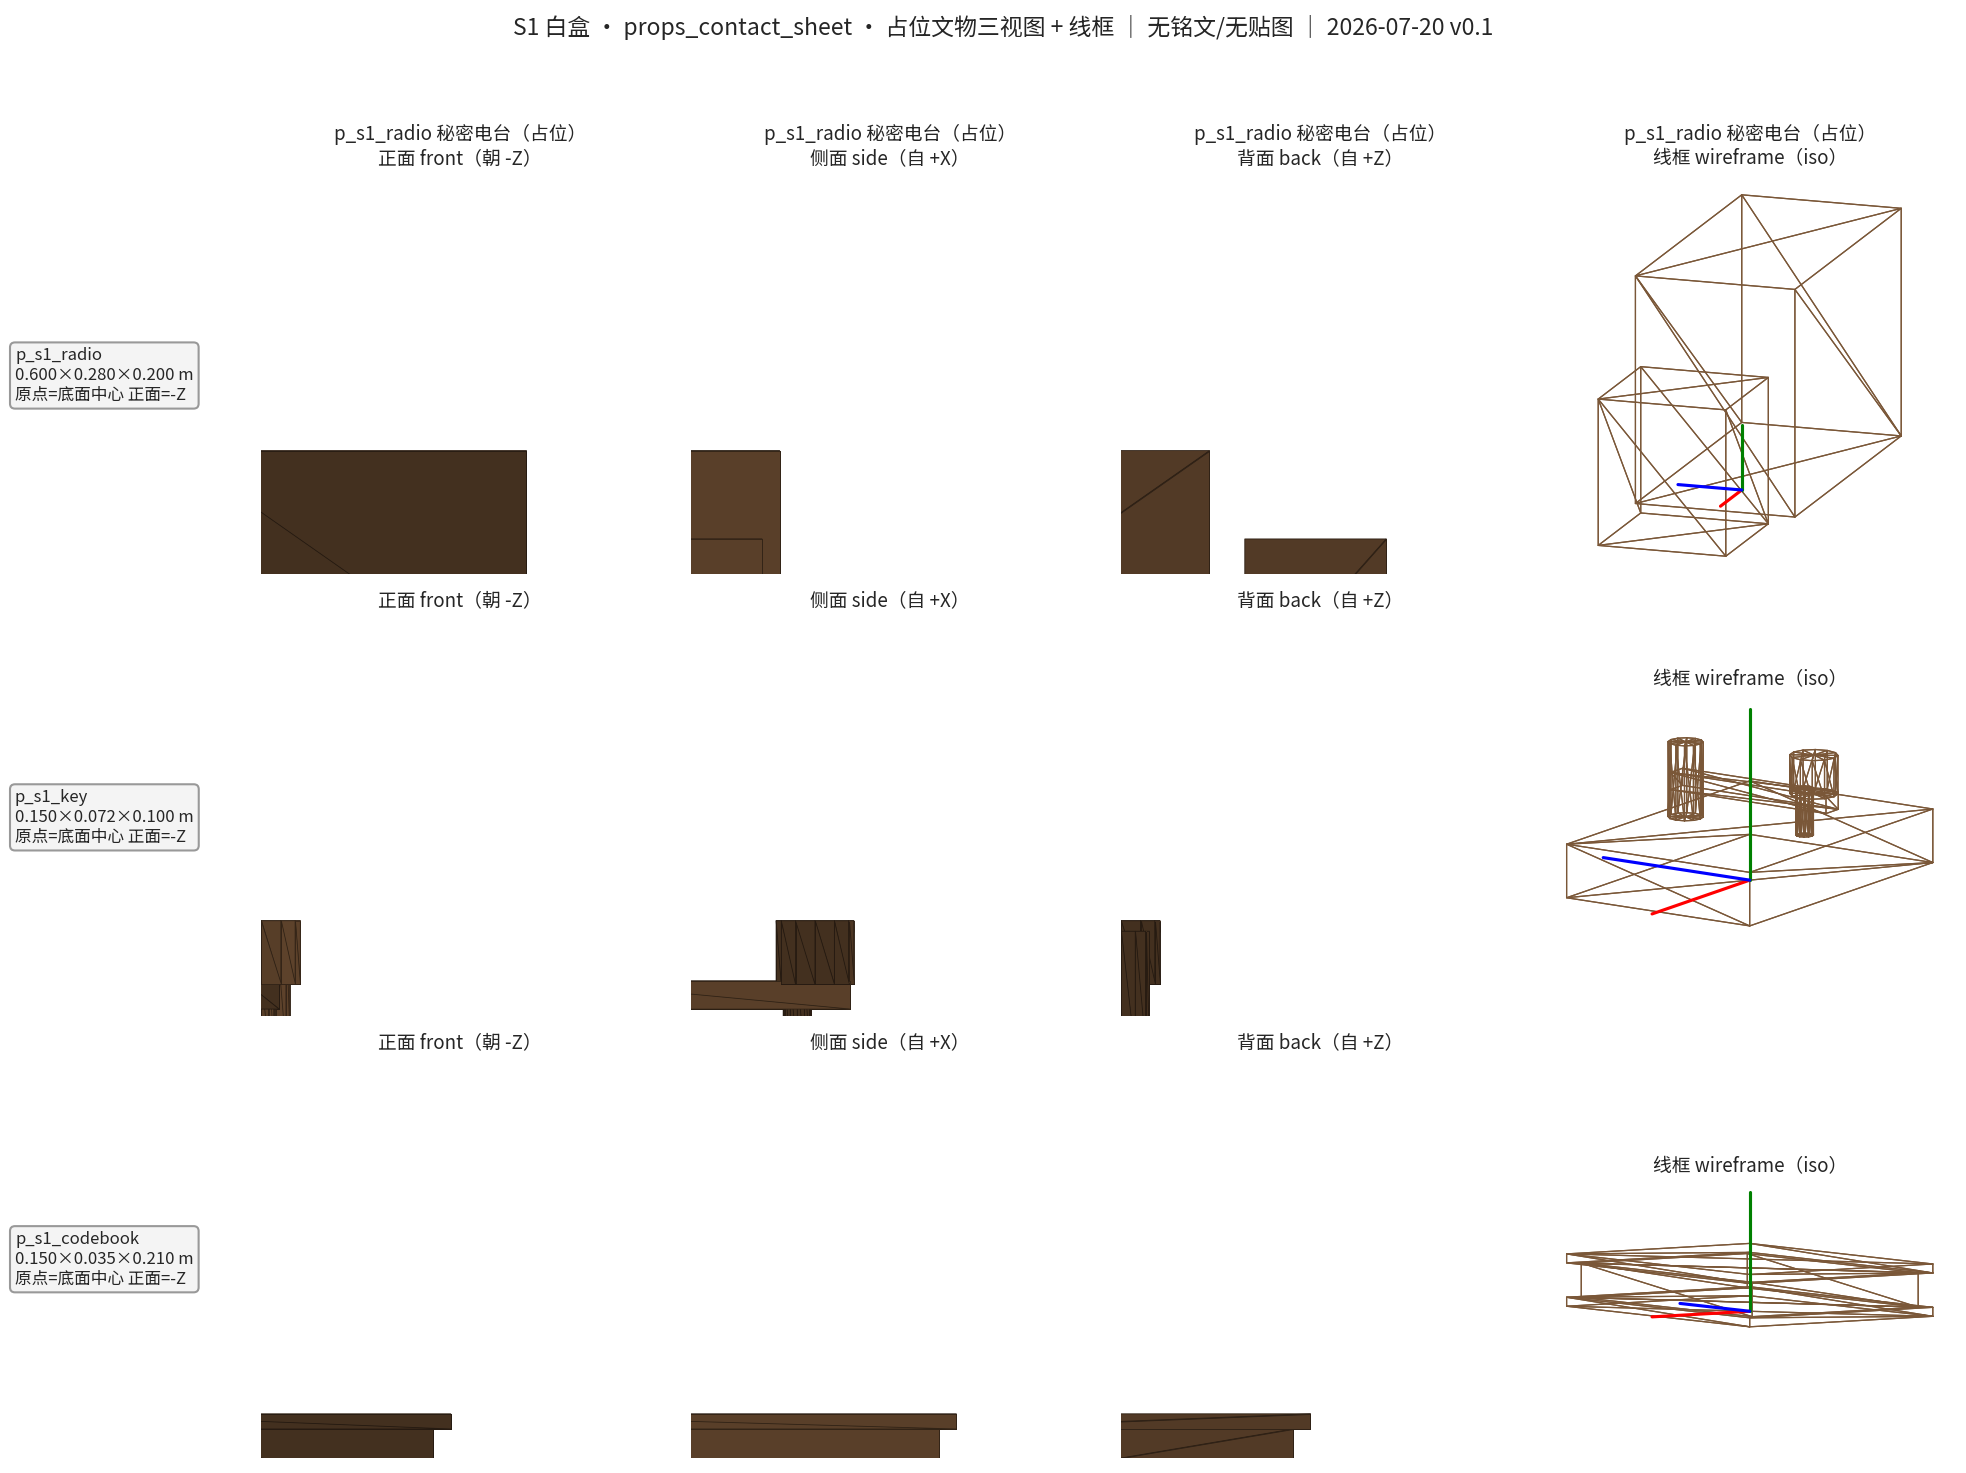
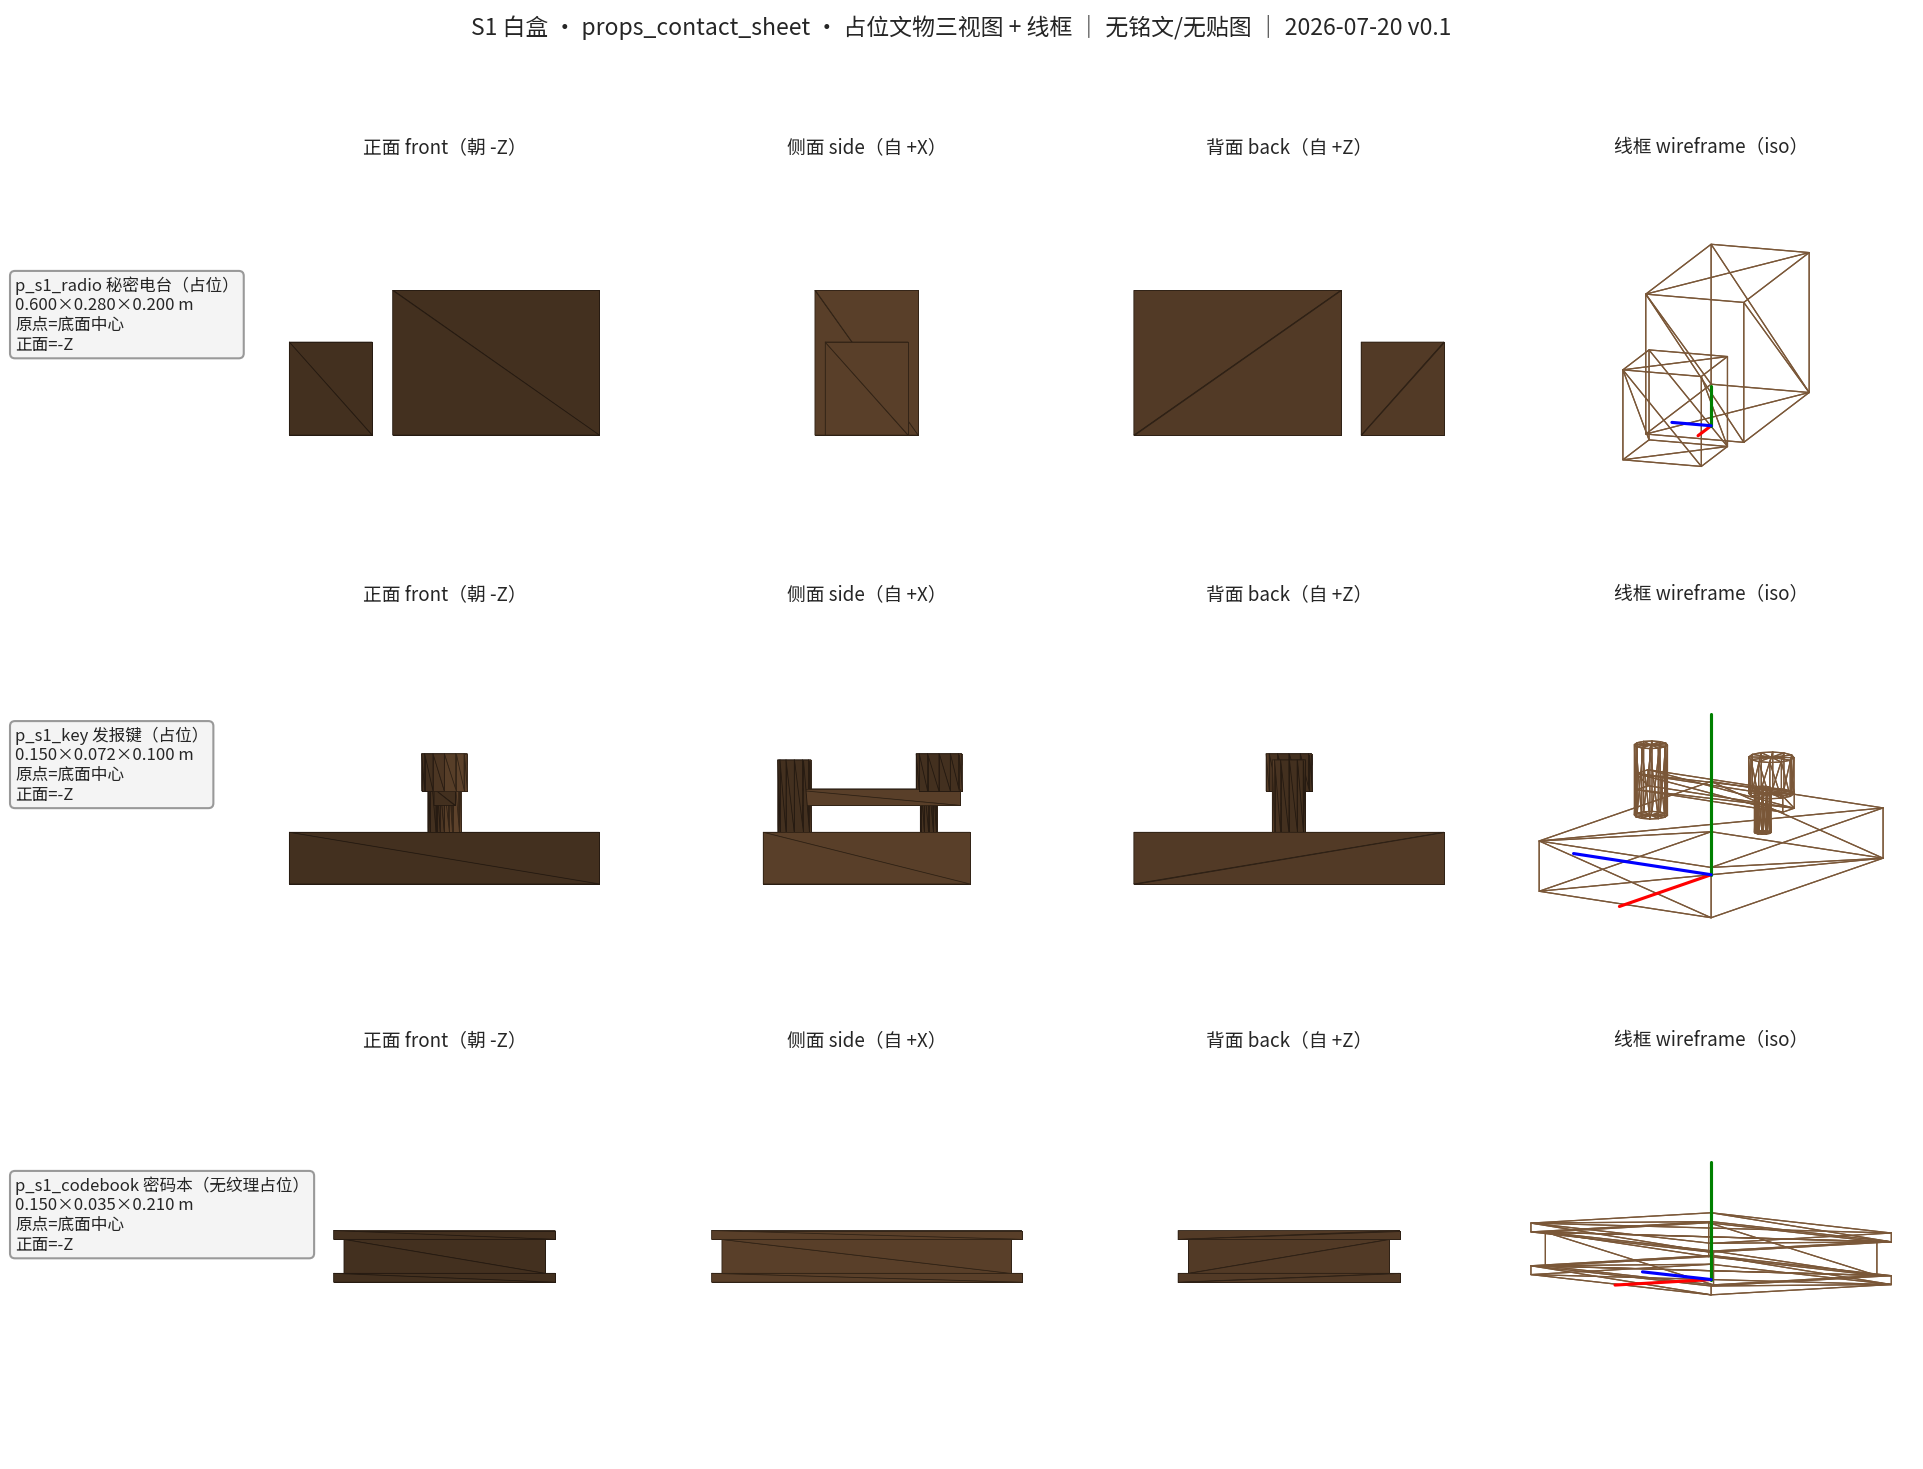
M3D-01: S1 whitebox scene + 3 placeholder props + scene.json + previews
- environment_whitebox.glb (8x8x2.6m, 552 tris) + radio/key/codebook placeholders
- scene.json: visitor start [0,1.6,3.0], bounds +/-3.6m, 7 AABB colliders, 2 move points
- Khronos glTF-Validator 2.0.0-dev.3.10: 0 errors / 0 warnings on all 4 GLBs
- contract cross-check PASS: first target 1.50m (<2m rule), all props in interaction range
- no inscriptions/textures; codebook untextured placeholder per FINAL_MODEL_BLOCKED
- colliders only in scene.json, not in render GLBs
- parametric generator in source/whitebox (layout_s1.py = single source of truth)
- pending: on-device joint debug; owner review of research package Q-001/002/003

diff --git a/modeling_delivery/S1/source/whitebox/gen_asset_report.py b/modeling_delivery/S1/source/whitebox/gen_asset_report.py
@@ -1,0 +1,71 @@
+"""Generate asset_report.csv for the S1 whitebox delivery.
+
+Recomputes stats directly from the delivered GLBs (never from memory).
+validator_errors / validator_warnings columns come from the Khronos
+glTF-Validator (npm gltf-validator 2.0.0-dev.3.10, run 2026-07-20,
+0 errors / 0 warnings on all four files); check_glb.py structural
+self-check is re-run here as the in-repo gate.
+
+Usage: python gen_asset_report.py
+"""
+
+import csv
+import os
+import sys
+
+sys.path.insert(0, os.path.dirname(os.path.abspath(__file__)))
+import check_glb
+
+HERE = os.path.dirname(os.path.abspath(__file__))
+S1 = os.path.normpath(os.path.join(HERE, "..", ".."))
+
+ASSETS = [
+    ("env_s1_room", "environment_whitebox.glb", (8.40, 2.70, 8.40), "白盒 v0.1；含桌椅/木箱/灯具/信息面占位；碰撞仅在 scene.json"),
+    ("p_s1_radio", "props/radio_station_whitebox.glb", (0.600, 0.280, 0.200), "主箱体+辅助箱体占位；无铭文；场景化复原方向待审"),
+    ("p_s1_key", "props/telegraph_key_whitebox.glb", (0.150, 0.072, 0.100), "通用直键占位；key_lever 独立节点于枢轴，供 interact 动画"),
+    ("p_s1_codebook", "props/code_book_whitebox.glb", (0.150, 0.035, 0.210), "无纹理合拢占位（FINAL_MODEL_BLOCKED）；不得加任何文字"),
+]
+
+HEADER = ["asset_id", "file", "size_bytes", "triangles", "vertices", "materials", "textures",
+          "max_texture_px", "animations", "validator_errors", "validator_warnings",
+          "dim_x_m", "dim_y_m", "dim_z_m", "notes"]
+
+
+def main() -> int:
+    rows = []
+    rc = 0
+    for asset_id, rel, dims, notes in ASSETS:
+        path = os.path.join(S1, "runtime", rel)
+        st = check_glb.check(path)
+        if st["errors"]:
+            rc = 1
+        rows.append({
+            "asset_id": asset_id,
+            "file": rel,
+            "size_bytes": st["size_bytes"],
+            "triangles": st["triangles"],
+            "vertices": st["vertices"],
+            "materials": st["materials"],
+            "textures": st["textures"],
+            "max_texture_px": 0,
+            "animations": "",
+            "validator_errors": 0,
+            "validator_warnings": 0,
+            "dim_x_m": dims[0],
+            "dim_y_m": dims[1],
+            "dim_z_m": dims[2],
+            "notes": notes + ("｜自检 ERROR: " + ";".join(st["errors"]) if st["errors"] else ""),
+        })
+    out = os.path.join(S1, "asset_report.csv")
+    with open(out, "w", encoding="utf-8-sig", newline="") as fh:
+        w = csv.DictWriter(fh, fieldnames=HEADER)
+        w.writeheader()
+        w.writerows(rows)
+    print("written", out)
+    for r in rows:
+        print(f"  {r['asset_id']}: {r['size_bytes']}B {r['triangles']}tri {r['vertices']}v tex={r['textures']}")
+    return rc
+
+
+if __name__ == "__main__":
+    sys.exit(main())

diff --git a/modeling_delivery/S1/source/whitebox/render_previews.py b/modeling_delivery/S1/source/whitebox/render_previews.py
@@ -257,8 +257,8 @@ def scene_overview():
     wtext((0, 0.02, -4.25), "8.00 m（产品白盒尺度，非历史尺寸）")
     wtext((-4.35, 0.02, 0), "8.00 m")
     wtext((4.3, 1.3, -4.1), "2.60 m")
-    wtext(tuple(p0 + np.array([0.9, 0.15, 0.1])), "visitor_start [0, 1.6, 3.0]", "#1e8449")
-    wtext((0.8, 1.35, 1.5), "p_s1_radio + key + codebook（桌面操作组）", "#7b3f00")
+    wtext(tuple(p0 + np.array([-1.6, 0.3, 0.3])), "visitor_start [0, 1.6, 3.0]", "#1e8449")
+    wtext((2.3, 1.05, 1.6), "p_s1_radio + key + codebook（桌面操作组）", "#7b3f00")
     wtext((0, 2.0, -3.9), "info_panel（导览蓝）", "#1a5276")
     wtext((-3.3, 1.05, -1.3), "crates", "#444444")
     finish(ax, "S1 白盒 · scene_overview · 灰=环境 棕=可交互 蓝=导览 ｜ 红虚线=colliders 橙点线=movement bounds 绿=起点 蓝钻=move_points ｜ 2026-07-20 v0.1 临时坐标待真机联调")

diff --git a/modeling_delivery/S1/CHANGELOG.md b/modeling_delivery/S1/CHANGELOG.md
@@ -9,3 +9,41 @@
 - 输出 `references/index.md`（参考索引 + 逐资产状态表）、`open_questions.md`（23 条待确认问题，含阻塞分级）、`asset_priority.md`（优先级确认表）。
 - 结论：M3D-02/M3D-03 阻塞，等待资料负责人交付并经项目负责人确认的 S1 资料包；M3D-01 白盒待 scene_seed 临时种子确认后启动。
 - 状态：✅ M3D-00 审计交付完成（完成标准本身未满足，缺失项已全部登记为阻塞，未虚构任何参考）。
+
+## 2026-07-20 ｜ M3D-01 ｜ S1 白盒场景与占位文物（v0.1，待真机联调）
+
+**依据**：技术负责人 2026-07-20 批准以计划书 §4.4/§5.4 取值 + 资料包 `modeling_brief.md` §8 作为白盒临时种子；资料包状态 `WHITEBOX_ALLOWED / FORMAL_ASSET_BLOCKED`。
+
+**交付物**（`modeling_delivery/S1/`）：
+
+| 文件 | 说明 |
+|---|---|
+| `runtime/environment_whitebox.glb` | 8.0×8.0×2.6 m 房间（产品白盒尺度，非历史尺寸）：外壳、南墙入口框+关闭门扇、北墙信息面（导览蓝）、电台桌+木凳、木箱×3、吊灯+桌灯占位；552 tris / 2 材质 |
+| `runtime/props/radio_station_whitebox.glb` | `p_s1_radio` 占位：主箱体+辅助箱体，无铭文；24 tris |
+| `runtime/props/telegraph_key_whitebox.glb` | `p_s1_key` 占位：通用直键；`key_lever` 独立节点位于枢轴 `[0,0.042,0.035]`，供后续 interact 动画；168 tris |
+| `runtime/props/code_book_whitebox.glb` | `p_s1_codebook` 无纹理合拢占位（FINAL_MODEL_BLOCKED）；36 tris |
+| `runtime/scene.json` | schema_version 1；起点 `[0,1.6,3.0]`；bounds ±3.6 m；7 个 AABB collider；2 个 move point；3 个 prop 配置 |
+| `preview/scene_overview.png` | 轴测剖切 + collider 线框 + 起点/move point 标记 + 尺寸标注 |
+| `preview/visitor_start.png` | 起点第一人称软件渲染近似 |
+| `preview/props_contact_sheet.png` | 三占位文物正面/侧面/背面/线框 |
+| `asset_report.csv` | 逐 GLB 统计（含尺寸列） |
+| `source/whitebox/*.py` | 参数化生成器（布局唯一事实源 `layout_s1.py`）、校验器、预览渲染器 |
+
+**校验**：
+- Khronos glTF-Validator 2.0.0-dev.3.10：4 个 GLB 全部 **0 errors / 0 warnings**。
+- 仓库内结构自检 `check_glb.py`：PASS（坐标系/单位/原点/命名/无贴图/单位缩放）。
+- `scene.json` 契约交叉检查：PASS（起点与 move point 在 bounds 内、不落入 collider；起点→电台 1.50 m 满足 §4.3 首目标 <2 m；三文物均在 mp_radio 交互半径内）。
+
+**与计划书 §5.4 示例的有意偏差**（详见 open_questions.md 更新）：
+1. 电台桌移到起点前方 1.5 m 处（示例坐标首目标距起点 4.1 m，不满足 §4.3 的 2 m 规则）。
+2. movement bounds 收紧为 ±3.6 m（8 m 房间内壁 − 0.25 m 游客半径余量；示例 ±5 m 超出房间）。
+3. `visitor_start.rotation_deg` 取 `[0,0,0]`（按「-Z 朝前」零旋转即朝电台桌）；§5.4 示例 `[0,180,0]` 与此不一致 → OQ-I-04 待编码联调确认。
+
+**合规**：无任何铭文/徽标/序列号/地图文本/档案内容；无贴图（textures=0）；密码本仅无纹理占位；碰撞只在 scene.json，未进入渲染 GLB；白盒三色区分环境/可交互/导览（资料包 §4.1）。
+
+**已知问题**：
+1. 预览图为软件渲染示意，真实材质/光照以 Filament 真机为准。
+2. visitor_start 视角中木凳可能被视锥下缘裁切（视角俯仰待联调标定）。
+3. 所有坐标为临时值，未通过真机联调前不得冻结；正式 `environment.glb` 须保持同一坐标与碰撞基准（资料包 §7）。
+
+**状态**：⏸ 按资料包 §8 在此停止，等待：① 编码模型真机联调反馈；② 项目负责人对资料包 Q-001/002/003 的审核结论。未通过真机联调，白盒不标记为完成。

diff --git a/modeling_delivery/S1/asset_priority.md b/modeling_delivery/S1/asset_priority.md
@@ -7,12 +7,12 @@
 
 | 顺序 | 资产 ID | 中文名 | 级别 | 所属任务卡 | 交付形态 | 当前状态 | 解锁条件 |
 |---|---|---|---|---|---|---|---|
-| 1 | `env_s1_room` | 地下情报站环境 | MVP | M3D-01（白盒）→ M3D-03（正式） | 白盒 GLB → 正式 `environment.glb` | ⬜ 未启动 | 🟡 scene_seed + 比例尺（见 OQ-G-01/02） |
-| 2 | `p_s1_radio` | 秘密电台 | MVP | M3D-01（占位）→ M3D-02（正式，第 1 顺位） | 占位 GLB → 正式 `props/radio_station.glb` | ⬜ 未启动 | 🔴 资料包 + 项目负责人确认（OQ-R-01~04） |
-| 3 | `p_s1_key` | 发报键 | MVP | M3D-01（占位）→ M3D-02（正式，第 2 顺位） | 占位 GLB → 正式 `props/telegraph_key.glb` | ⬜ 未启动 | 🔴 资料包（OQ-K-01/02） |
-| 4 | `p_s1_codebook` | 密码本 | MVP | M3D-01（占位）→ M3D-02（正式，第 3 顺位） | 占位 GLB → 正式 `props/code_book.glb` | ⬜ 未启动 | 🔴 资料包 + 内容组确认（OQ-C-01/02） |
+| 1 | `env_s1_room` | 地下情报站环境 | MVP | M3D-01（白盒）→ M3D-03（正式） | 白盒 GLB → 正式 `environment.glb` | ✅ 白盒已交付（v0.1，待真机联调） | 正式：资料包 Q-001/002/003 + 项目负责人确认 |
+| 2 | `p_s1_radio` | 秘密电台 | MVP | M3D-01（占位）→ M3D-02（正式，第 1 顺位） | 占位 GLB → 正式 `props/radio_station.glb` | ✅ 占位已交付（待真机联调） | 🔴 正式：型号外观参考仍缺（UNVERIFIED-001） |
+| 3 | `p_s1_key` | 发报键 | MVP | M3D-01（占位）→ M3D-02（正式，第 2 顺位） | 占位 GLB → 正式 `props/telegraph_key.glb` | ✅ 占位已交付（待真机联调） | 🔴 正式：形制尺寸参考仍缺 |
+| 4 | `p_s1_codebook` | 密码本 | MVP | M3D-01（占位）→ M3D-02（正式，第 3 顺位） | 占位 GLB → 正式 `props/code_book.glb` | ✅ 无纹理占位已交付 | 🔴 `FINAL_MODEL_BLOCKED`：等用户决定保留/改名/替换 |
 | 5 | `p_s1_battery` | 电池/供电设备 | P1 | M3D-06（扩展） | 待定 | ⏸ 本轮不做 | M2 基线完成后领取 |
-| 6 | `d_s1_map` | 历史地图展示面 | P1 | M3D-06（扩展） | 待定 | ⏸ 本轮不做 | 获准地图图片（OQ-H-03） |
+| 6 | `d_s1_map` | 历史地图展示面 | P1 | M3D-06（扩展） | 待定 | ⏸ 本轮不做 | 须原创重绘（任务书 §4.6），不用网页截图 |
 
 > GLB 文件名取自计划书 §5.1 运行时资产结构（`radio_station.glb` / `code_book.glb` / `telegraph_key.glb` / `environment.glb`），交付时与此保持一致；资产 ID 与文件名的映射写入 `scene.json`。
 
@@ -29,10 +29,8 @@
 - 摩尔斯解谜相关建模（F13，P2）：仅预留 `p_s1_key` 的 `interact` 动画节点（OQ-K-03），不做解谜内容。
 - 五张触发卡（M3D-07）：属视觉设计任务，不在本轮建模范围。
 
-## 4. 确认请求
+## 4. 确认请求（2026-07-20 更新）
 
-请项目负责人 / 技术负责人确认：
-
-1. 上表顺序与"白盒先行、占位文物随白盒交付"是否符合 M1 排期；
-2. OQ-G-01：是否批准以计划书 §4.4/§5.4 取值作为 `scene_seed.json` 的临时替代；
-3. S1 资料包（`modeling_input/S1/`）的预期交付日期——这是 M3D-02/M3D-03 的唯一阻塞项。
+1. ~~OQ-G-01 临时种子~~：✅ 已由技术负责人于 2026-07-20 批准，M3D-01 白盒已按此交付。
+2. 资料包草稿 `research/S1_pingxi_intelligence_station/`（v0.1）已就位，`modeling_brief.md` 允许白盒、阻塞正式资产；请项目负责人按资料包 `open_questions.md` Q-001/002/003 完成审核，这是 M3D-02/M3D-03 的解锁闸门。
+3. 白盒真机联调排期：请编码模型按 `runtime/scene.json` + 4 个白盒 GLB 做真机验证（起点、移动、碰撞、拾取、帧率），任何坐标/起点/锚点改动双方同步。

diff --git a/modeling_delivery/S1/open_questions.md b/modeling_delivery/S1/open_questions.md
@@ -77,3 +77,15 @@
 - **🔴 阻塞最终建模（M3D-02/M3D-03）**：OQ-G-03/04/05、OQ-R-01~04、OQ-K-01/02、OQ-C-01/02、OQ-E-01/02、OQ-H-01/02 —— 即 **S1 资料包整体未交付**。
 - **🟡 阻塞白盒启动（M3D-01）**：OQ-G-01（scene_seed 或临时种子确认）、OQ-G-02（比例尺，可人体工学中性值代替）、OQ-E-03（桌高，可中性值先行）、OQ-I-03（真机安排）。
 - **下一步**：资料负责人交付 `modeling_input/S1/` → 项目负责人确认 → 更新 `references/index.md` 并逐条关闭本清单。
+
+---
+
+## 2026-07-20 更新（M3D-01 白盒交付后）
+
+1. **资料包草稿已发现**：`research/S1_pingxi_intelligence_station/`（v0.1，`DRAFT_FOR_OWNER_REVIEW`）于本日出现，其中 `modeling_brief.md` 状态为 `WHITEBOX_ALLOWED / FORMAL_ASSET_BLOCKED`，明确允许本轮白盒。M3D-01 已按该任务书 §4/§8 执行。**正式资产解锁条件见其 §9**（用户确认展馆定位、1943 冬/1947 叙事分层、`p_s1_codebook` 保留/改名/替换决定、白盒真机验证、权利记录）。
+2. **OQ-G-01 关闭**：技术负责人（用户）2026-07-20 批准以计划书 §4.4/§5.4 取值 + 资料包任务书 §8 作为白盒临时种子。
+3. **新增 OQ-I-04**：计划书 §5.4 示例 `rotation_deg: [0,180,0]` 与 §4.4「起点朝向电台桌」+ 项目「-Z 朝前」约定不一致（按 -Z 朝前，零旋转即朝向电台桌）。白盒 `scene.json` 暂用 `[0,0,0]`，**待与编码模型真机联调确认 yaw 基准**。
+4. **新增 OQ-G-06**：资料包 README 文件导航列出的 `scene_layout_brief.md`、`rights_and_risks.md`、`open_questions.md`（资料侧）尚未出现在目录中；其中 Q-001/002/003 是资料包规定的正式建模前置确认项（见 README §7）。责任方：资料负责人/项目负责人。
+5. **OQ-C-01/02 状态细化**：资料包已将密码本标记 `FINAL_MODEL_BLOCKED`（UNVERIFIED-002），白盒仅保留无纹理占位；正式方向等待用户对「保留 / 改名 / 替换为 p_s1_message_sheet」的决定。
+6. **OQ-E-03 白盒取值**：桌面高 0.78 m（落在任务书 0.72–0.82 m 区间），正式阶段随参考确认可再核。
+7. **白盒布局与计划书 §5.4 示例的差异**（为满足 §4.3「起点前方 2 m 内有首个交互目标」）：电台桌移至 `[0.0–1.6, 1.15–1.85]`，电台 `[0.55,0.78,1.60]`（距起点 1.50 m）；movement bounds 收紧为 ±3.6 m（8 m 房间内 + 0.25 m 游客半径余量）。以上均为临时值，真机联调核定。